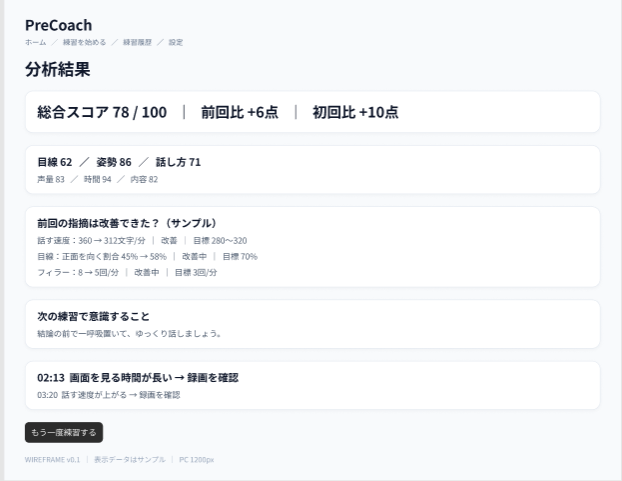
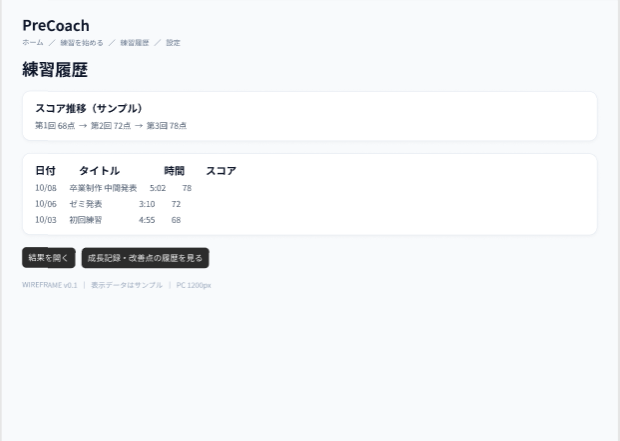
Refactor code structure for improved readability and maintainability

diff --git a/front/src/PracticeHistoryPage.tsx b/front/src/PracticeHistoryPage.tsx
@@ -1,0 +1,95 @@
+import { useState } from 'react'
+import './PracticeHistoryPage.css'
+
+const practiceHistory = [
+  { date: '10/08', title: '卒業制作 中間発表', duration: '5:02', score: 78 },
+  { date: '10/06', title: 'ゼミ発表', duration: '3:10', score: 72 },
+  { date: '10/03', title: '初回練習', duration: '4:55', score: 68 },
+]
+
+function PracticeHistoryPage() {
+  const [message, setMessage] = useState('')
+
+  return (
+    <main className="history-shell">
+      <div className="history-page">
+        <header className="history-header">
+          <p className="history-brand">PreCoach</p>
+          <nav className="history-nav" aria-label="メインメニュー">
+            <span>ホーム</span>
+            <span aria-hidden="true">/</span>
+            <span>練習を始める</span>
+            <span aria-hidden="true">/</span>
+            <span>練習履歴</span>
+            <span aria-hidden="true">/</span>
+            <span>設定</span>
+          </nav>
+        </header>
+
+        <section className="history-content" aria-labelledby="history-title">
+          <h1 id="history-title">練習履歴</h1>
+
+          <section className="history-card history-progress" aria-labelledby="progress-title">
+            <h2 id="progress-title">スコア推移（サンプル）</h2>
+            <p>第1回 68点 → 第2回 72点 → 第3回 78点</p>
+          </section>
+
+          <section className="history-card history-table-card" aria-label="練習記録一覧">
+            <table className="history-table">
+              <thead>
+                <tr>
+                  <th scope="col">日付</th>
+                  <th scope="col">タイトル</th>
+                  <th scope="col">時間</th>
+                  <th scope="col">スコア</th>
+                </tr>
+              </thead>
+              <tbody>
+                {practiceHistory.map((practice) => (
+                  <tr key={practice.date}>
+                    <td>{practice.date}</td>
+                    <td>{practice.title}</td>
+                    <td>{practice.duration}</td>
+                    <td>{practice.score}</td>
+                  </tr>
+                ))}
+              </tbody>
+            </table>
+          </section>
+
+          <div className="history-actions">
+            <button
+              className="history-button"
+              type="button"
+              onClick={() => setMessage('練習結果の表示機能は現在準備中です。')}
+            >
+              結果を開く
+            </button>
+            <button
+              className="history-button"
+              type="button"
+              onClick={() => setMessage('成長記録の表示機能は現在準備中です。')}
+            >
+              成長記録・改善点の履歴を見る
+            </button>
+          </div>
+          {message && (
+            <p className="history-message" role="status">
+              {message}
+            </p>
+          )}
+        </section>
+
+        <footer className="history-footer">
+          <span>WIREFRAME v0.1</span>
+          <span aria-hidden="true">|</span>
+          <span>表示データはサンプル</span>
+          <span aria-hidden="true">|</span>
+          <span>PC 1200px</span>
+        </footer>
+      </div>
+    </main>
+  )
+}
+
+export default PracticeHistoryPage

diff --git a/front/src/PracticeHistoryPage.css b/front/src/PracticeHistoryPage.css
@@ -1,0 +1,171 @@
+.history-shell {
+  box-sizing: border-box;
+  min-height: 100svh;
+  padding: 0 max(0px, calc((100% - 1200px) / 2));
+  color: #172033;
+  background: #e9edf2;
+}
+
+.history-page {
+  box-sizing: border-box;
+  width: 100%;
+  max-width: 1200px;
+  min-height: 100svh;
+  margin: 0 auto;
+  padding: 16px 24px 20px;
+  background: #f7f9fc;
+}
+
+.history-header {
+  margin-bottom: 11px;
+}
+
+.history-brand {
+  margin: 0;
+  color: #172033;
+  font-size: 16px;
+  font-weight: 700;
+  line-height: 1.25;
+}
+
+.history-nav {
+  display: flex;
+  flex-wrap: wrap;
+  gap: 6px;
+  margin-top: 3px;
+  color: #8290a5;
+  font-size: 8px;
+  line-height: 1.3;
+}
+
+.history-content h1 {
+  margin: 0 0 10px;
+  color: #172033;
+  font-size: 18px;
+  font-weight: 700;
+  line-height: 1.3;
+}
+
+.history-card {
+  box-sizing: border-box;
+  border: 1px solid #e1e7ee;
+  border-radius: 10px;
+  background: #fff;
+  box-shadow: 0 2px 7px rgb(31 48 73 / 3%);
+}
+
+.history-progress {
+  padding: 9px 12px;
+}
+
+.history-progress h2 {
+  margin: 0;
+  color: #263247;
+  font-size: 10px;
+  font-weight: 700;
+  line-height: 1.5;
+}
+
+.history-progress p {
+  margin: 3px 0 0;
+  color: #66758a;
+  font-size: 9px;
+  line-height: 1.5;
+}
+
+.history-table-card {
+  margin-top: 11px;
+  padding: 8px 12px;
+  overflow-x: auto;
+}
+
+.history-table {
+  width: 100%;
+  border-collapse: collapse;
+  text-align: left;
+}
+
+.history-table th {
+  padding: 1px 0 4px;
+  color: #263247;
+  font-size: 10px;
+  font-weight: 700;
+  line-height: 1.4;
+}
+
+.history-table td {
+  padding: 2px 0;
+  color: #66758a;
+  font-size: 9px;
+  line-height: 1.5;
+}
+
+.history-table th:first-child,
+.history-table td:first-child {
+  width: 44px;
+}
+
+.history-table th:nth-child(3),
+.history-table td:nth-child(3) {
+  width: 42px;
+}
+
+.history-table th:last-child,
+.history-table td:last-child {
+  width: 34px;
+}
+
+.history-actions {
+  display: flex;
+  flex-wrap: wrap;
+  gap: 6px;
+  margin-top: 12px;
+}
+
+.history-button {
+  padding: 6px 8px;
+  border: 1px solid #2d2d2d;
+  border-radius: 4px;
+  background: #303030;
+  color: #fff;
+  cursor: pointer;
+  font: inherit;
+  font-size: 9px;
+  line-height: 1.25;
+}
+
+.history-button:hover {
+  border-color: #111;
+  background: #181818;
+}
+
+.history-button:focus-visible {
+  outline: 3px solid #8da2c2;
+  outline-offset: 3px;
+}
+
+.history-message {
+  margin: 8px 0 0;
+  color: #66758a;
+  font-size: 9px;
+}
+
+.history-footer {
+  display: flex;
+  flex-wrap: wrap;
+  gap: 7px;
+  margin-top: 12px;
+  color: #a0adbf;
+  font-size: 8px;
+  line-height: 1.5;
+}
+
+@media (max-width: 600px) {
+  .history-page {
+    padding: 20px 16px;
+  }
+
+  .history-table {
+    min-width: 390px;
+  }
+}
